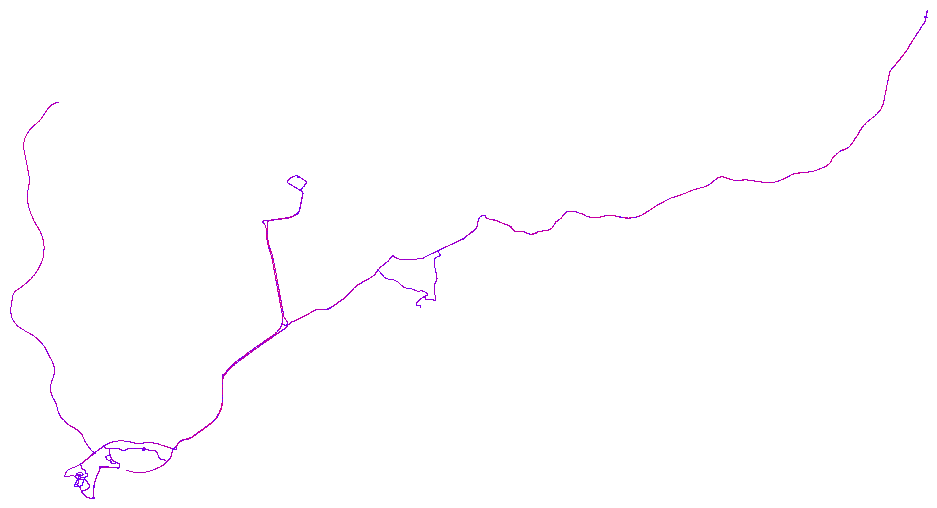
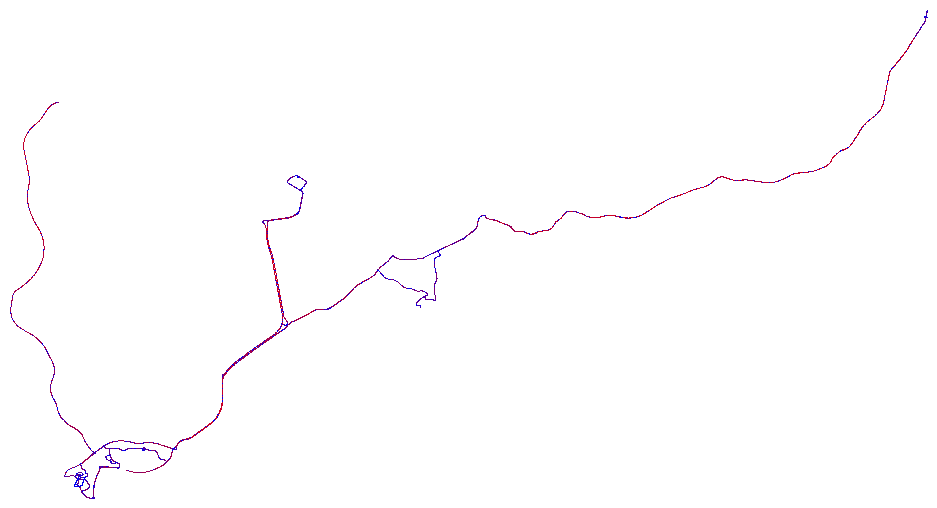
Mikal: New mapping code

diff --git a/gps/plot.c b/gps/plot.c
@@ -20,15 +20,36 @@
 #include <png.h>
 #include <libmplot.h>
 
-// The speed range is considered to be 0 - 150 kmh
 int rconv(long speed){
-  // The top half of the speed range are reds
-  return 105 + speed;
+  if(speed < 5) return 0;
+  if(speed < 15) return 20;
+  if(speed < 25) return 40;
+  if(speed < 35) return 60;
+  if(speed < 45) return 80;
+  if(speed < 55) return 100;
+  if(speed < 65) return 120;
+  if(speed < 75) return 140;
+  if(speed < 85) return 160;
+  if(speed < 95) return 180;
+  if(speed < 105) return 200;
+  if(speed < 115) return 220;
+  return 240;
 }
 
 int bconv(long speed){
-  // The bottom half are blues
-  return 255 - speed;
+  if(speed < 5) return 240;
+  if(speed < 15) return 220;
+  if(speed < 25) return 200;
+  if(speed < 35) return 180;
+  if(speed < 45) return 160;
+  if(speed < 55) return 140;
+  if(speed < 65) return 120;
+  if(speed < 75) return 100;
+  if(speed < 85) return 80;
+  if(speed < 95) return 60;
+  if(speed < 105) return 40;
+  if(speed < 115) return 20;
+  return 0;
 }
 
 
@@ -62,8 +83,8 @@ main (int argc, char *argv[])
 
     // If we're at warp speed, then don't believe the point
     if((datapts == 0) || 
-       ((abs(x - mapptx[datapts - 1]) < 15) &&
-	(abs(y - mappty[datapts - 1]) < 15))){
+       ((abs(x - mapptx[datapts - 1]) < 20) &&
+	(abs(y - mappty[datapts - 1]) < 20))){
       mapptx[datapts] = x;
       mappty[datapts] = y;
       speeds[datapts] = s;
